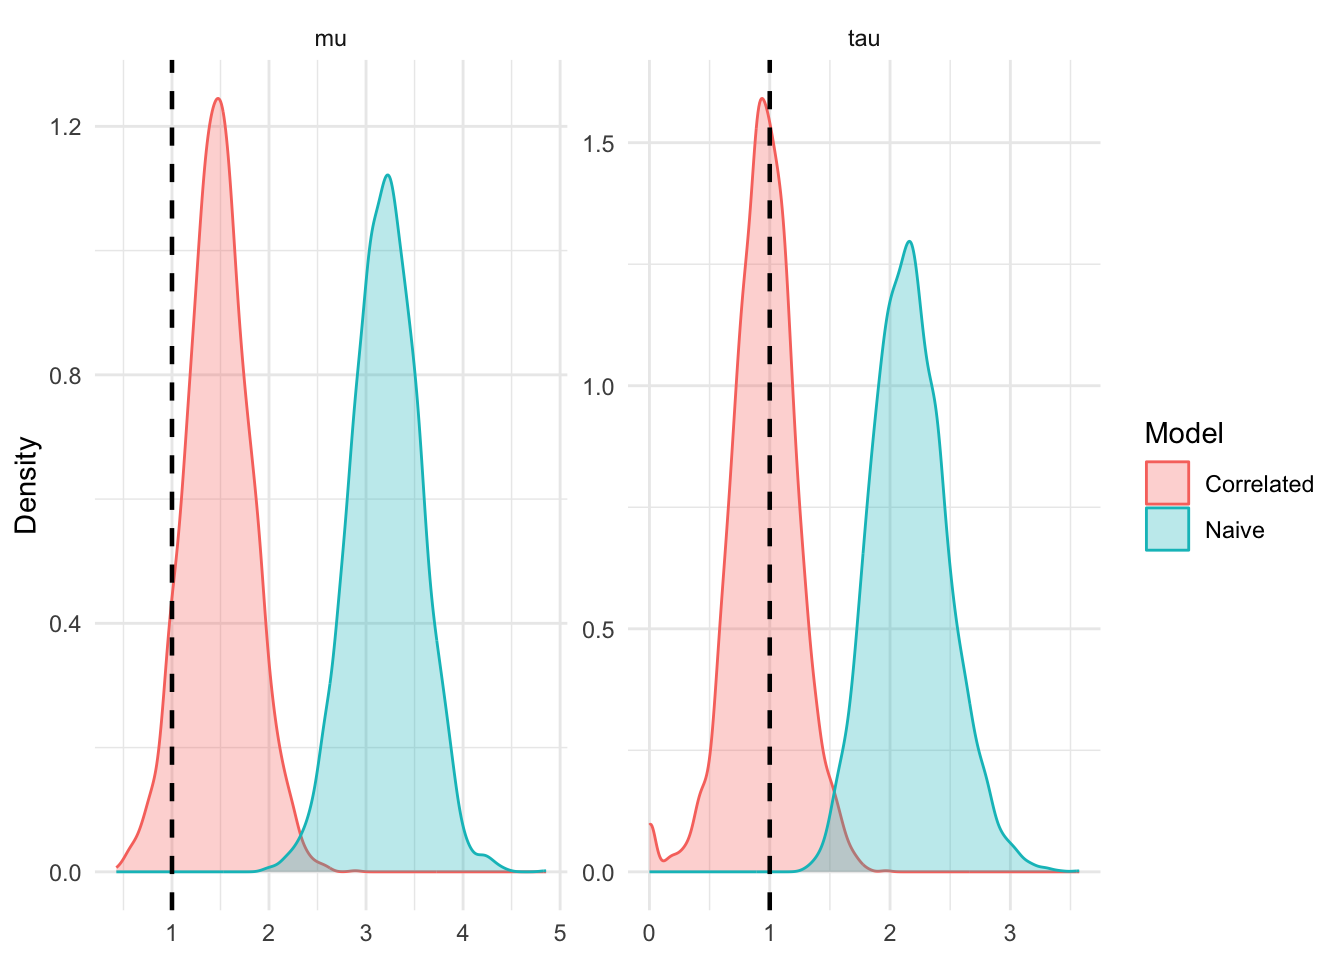
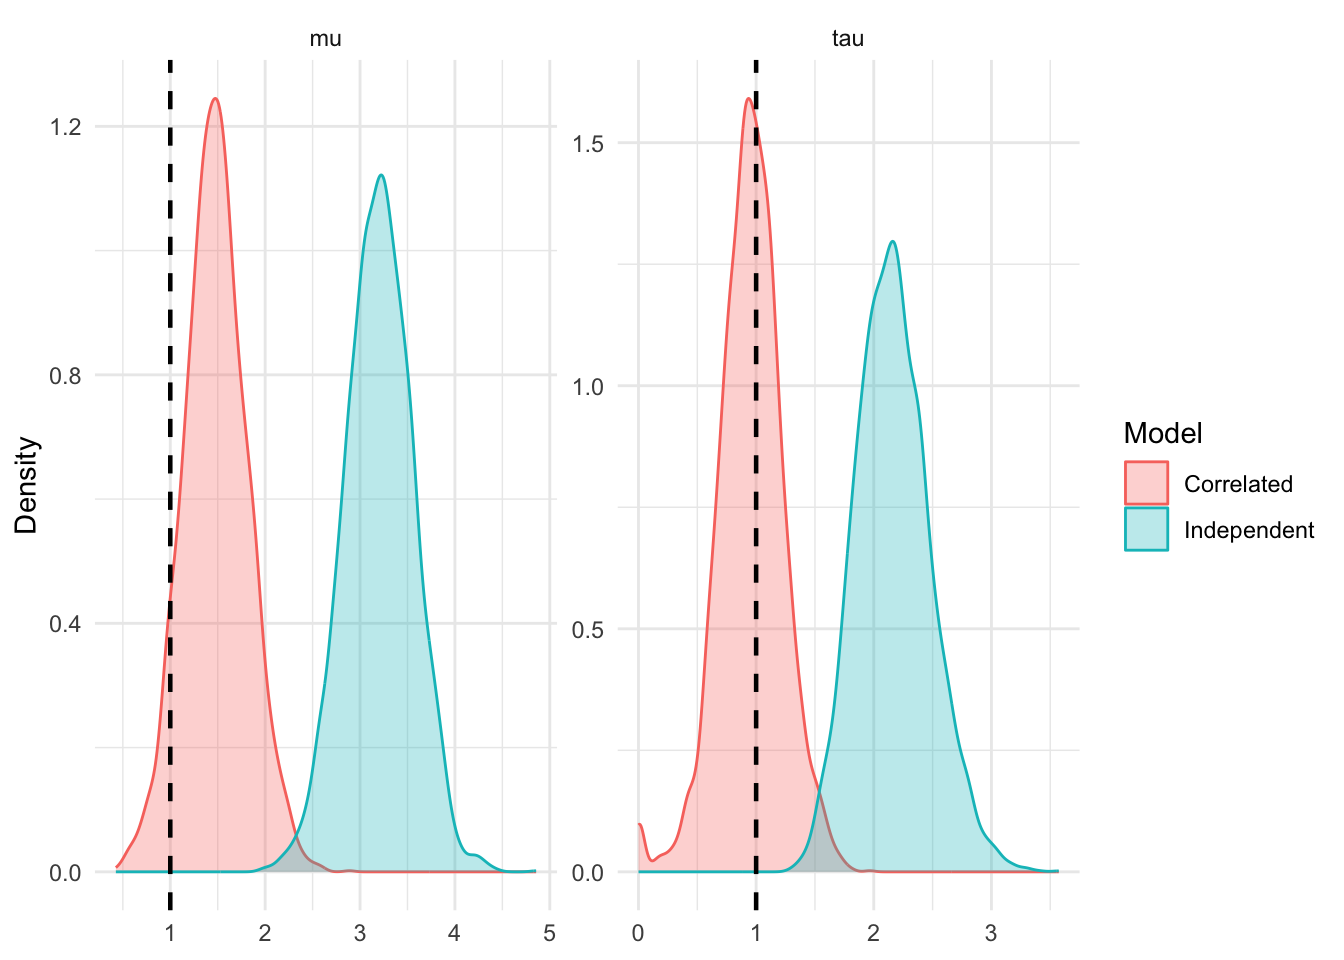
change label

diff --git a/docs/index.html b/docs/index.html
@@ -228,7 +228,7 @@ window.Quarto = {
 
 <div class="quarto-listing quarto-listing-container-default" id="listing-listing">
 <div class="list quarto-listing-default">
-<div class="quarto-post image-right" data-index="0" data-categories="" data-listing-date-sort="1774152000000" data-listing-file-modified-sort="1774203241310" data-listing-date-modified-sort="NaN" data-listing-reading-time-sort="12" data-listing-word-count-sort="2334">
+<div class="quarto-post image-right" data-index="0" data-categories="" data-listing-date-sort="1774152000000" data-listing-file-modified-sort="1774228533388" data-listing-date-modified-sort="NaN" data-listing-reading-time-sort="12" data-listing-word-count-sort="2334">
 <div class="thumbnail">
 <p><a href="./posts/2026-03-22-shrink/index.html" class="no-external"></a></p><a href="./posts/2026-03-22-shrink/index.html" class="no-external">
 <p class="card-img-top"><img src="posts/2026-03-22-shrink/index_files/figure-html/unnamed-chunk-2-1.png"  class="thumbnail-image card-img"/></p>
